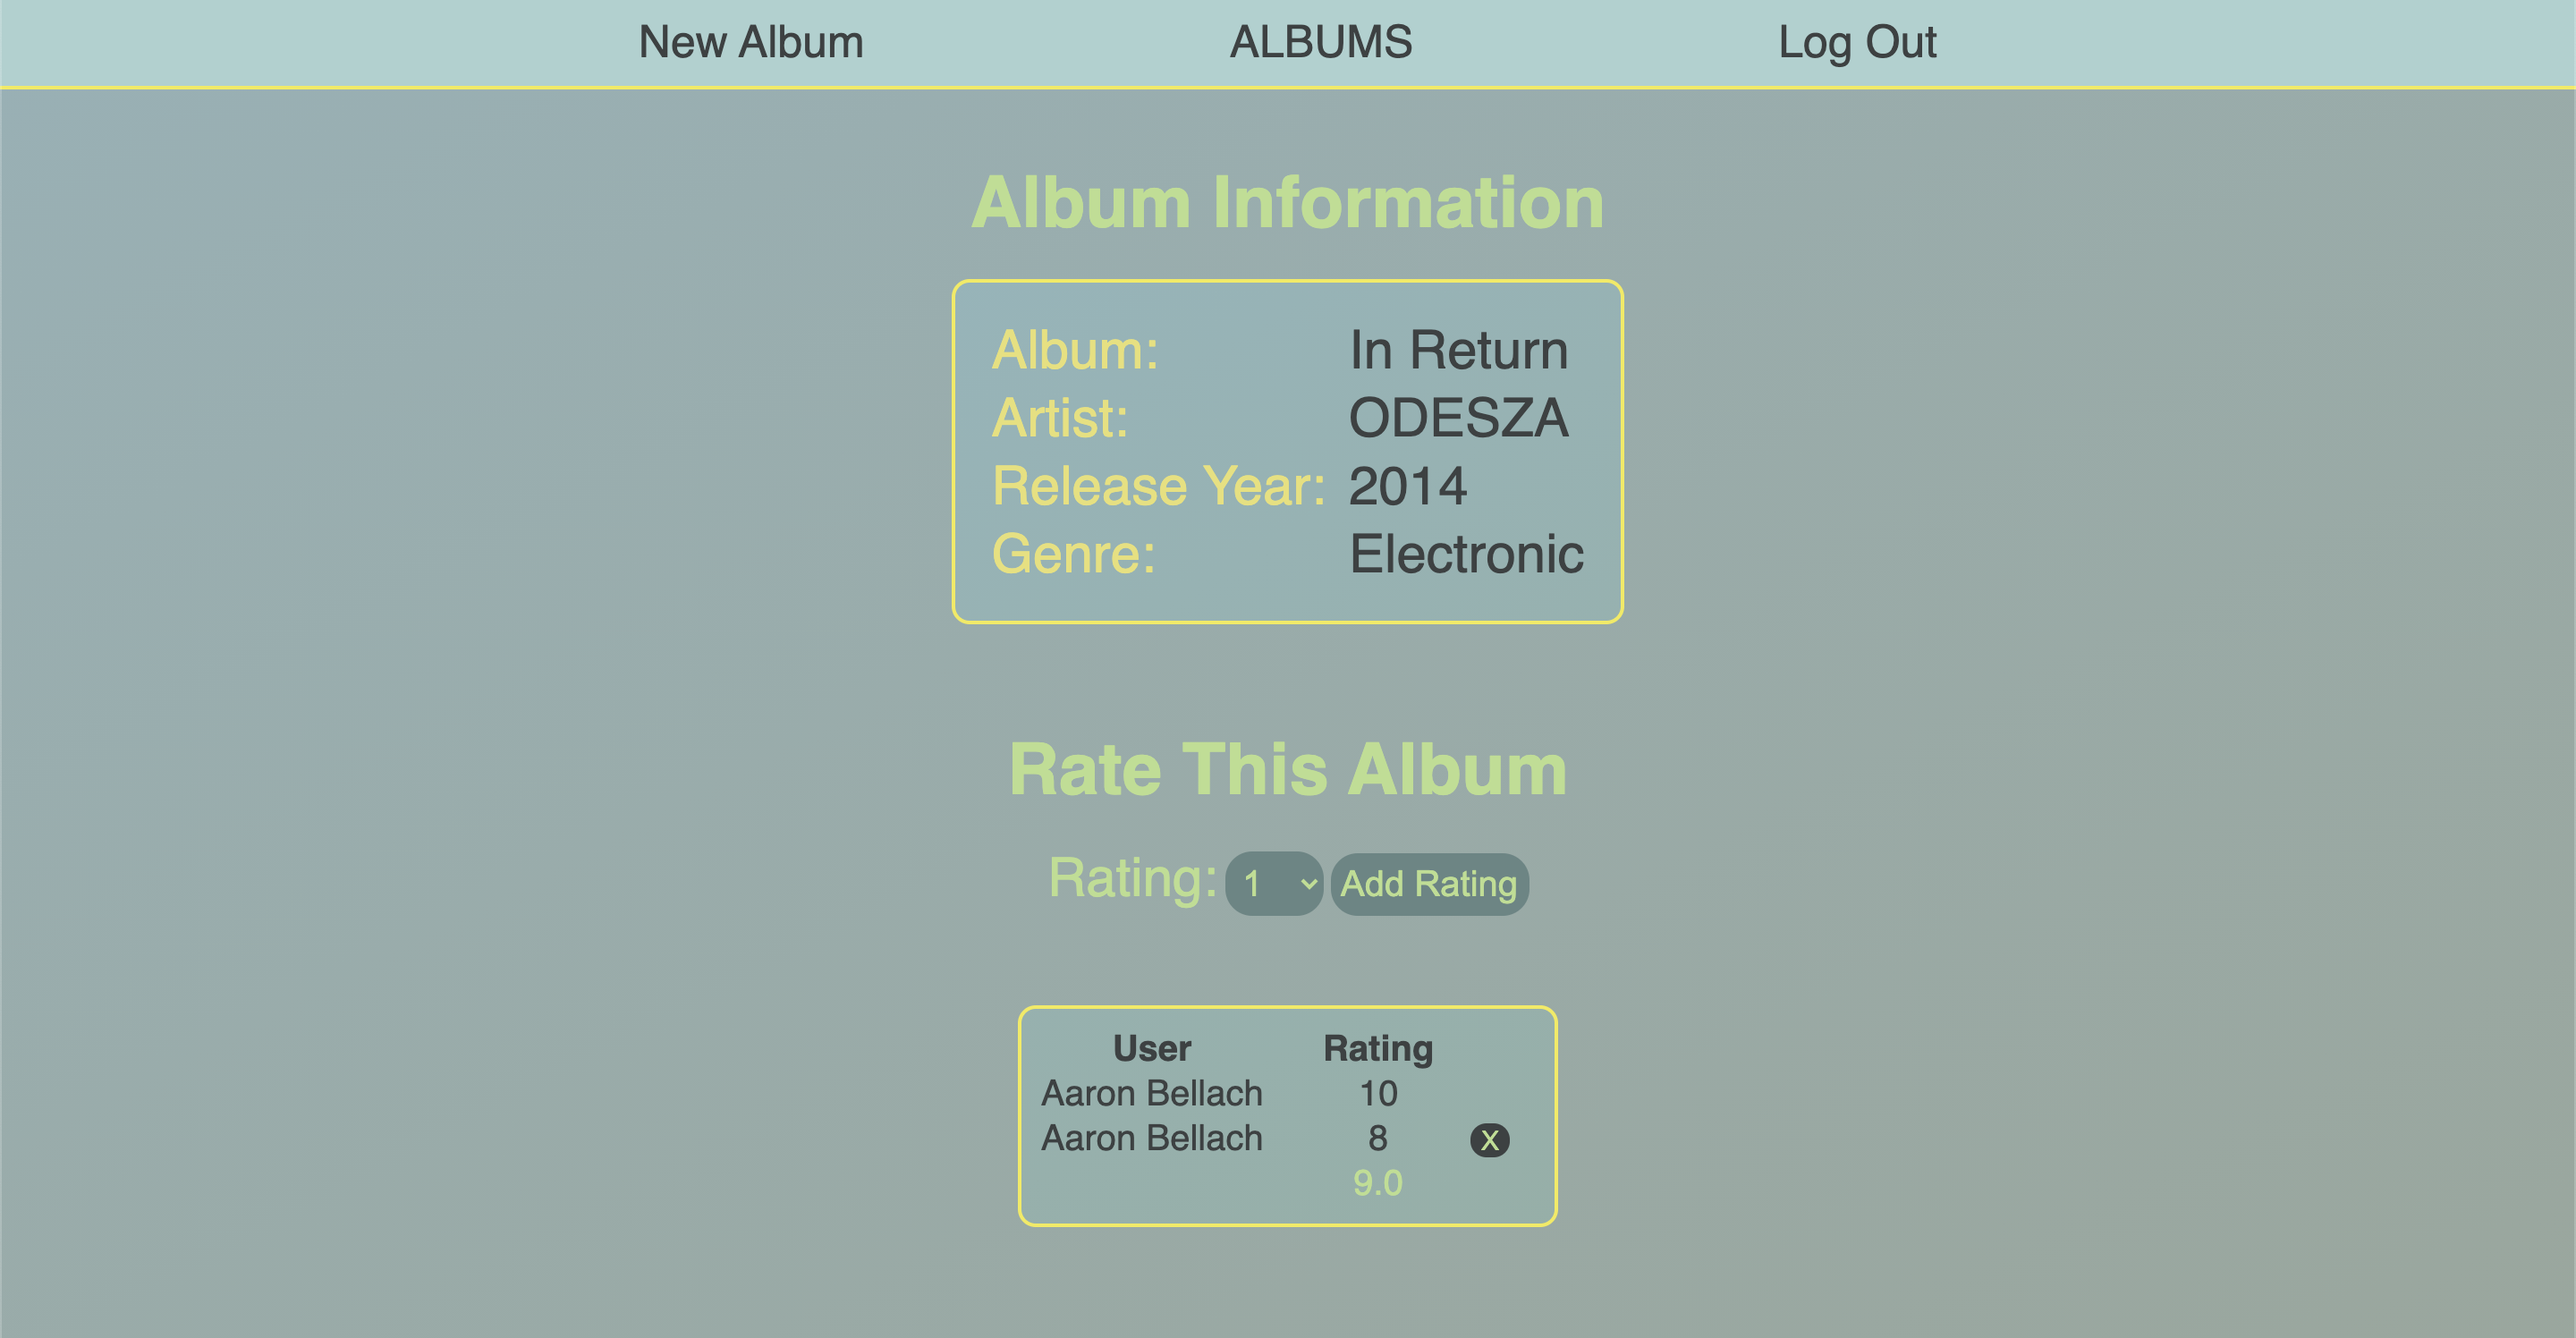
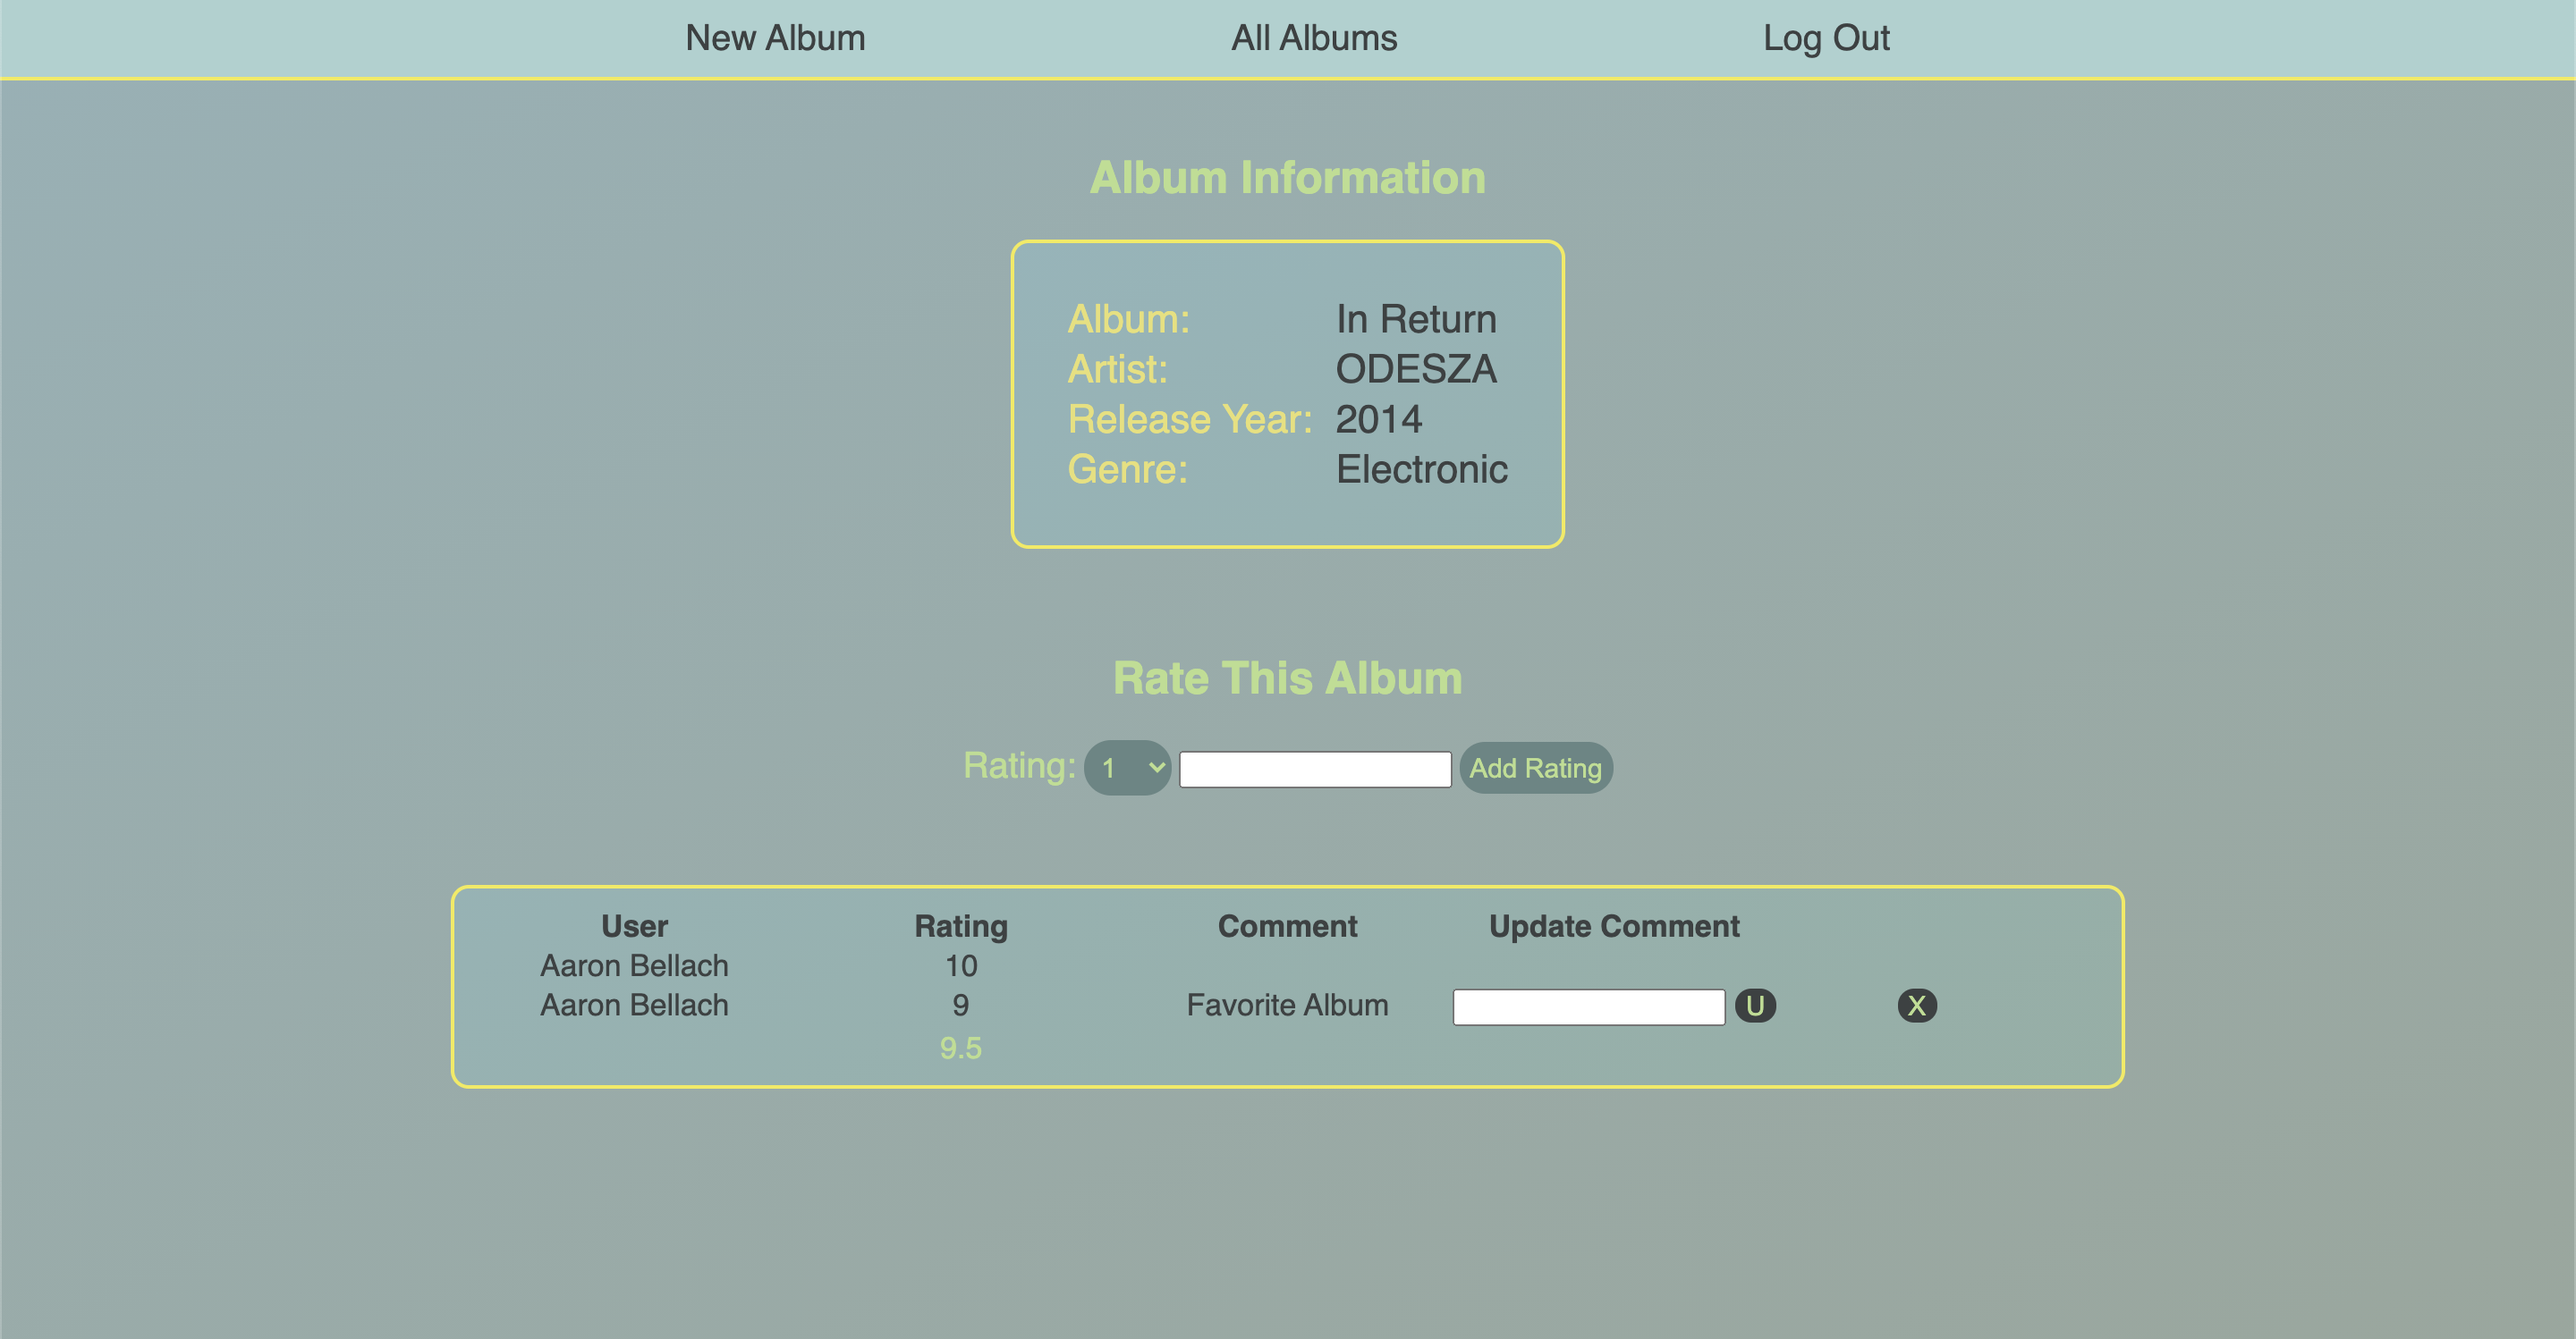
finished code

diff --git a/public/stylesheets/style.css b/public/stylesheets/style.css
@@ -6,10 +6,10 @@ body {
 table{
   display: inline-grid;
   text-align: left;
-  margin:50px 50px 0px 50px;
-  padding: 30px;
+  margin:50px 20px 0px 20px;
+  padding: 50px;
   font-family: sans-serif;
-  font-size: 25px;
+  font-size: 20px;
   color: #3c4142;
   border-style: solid;
   border-width: 2px;
@@ -20,7 +20,7 @@ table{
 
 .grid-container {
   display: inline-grid;
-  grid-template-columns: 1fr 1fr;
+  grid-template-columns: 1fr 1fr 1fr;
   column-width: 100px;
 }
 
@@ -36,14 +36,14 @@ table{
 #details {
   text-decoration: none;
   color: #5c777d;
-  font-size: 20px;
+  font-size: 15px;
 }
 
 nav > a {
   padding: 0px 100px 0px 100px;
   color: #3c4142;
   font-family: sans-serif;
-  font-size: 25px;
+  font-size: 20px;
   text-decoration: none;
 }
 
@@ -64,10 +64,10 @@ nav {
   grid-gap: 10px;
   margin-top: 150px;
   margin-bottom: 30px;
-  padding: 60px;
+  padding: 40px;
   color: #f1ec4c;
   font-family: sans-serif;
-  font-size: 30px;
+  font-size: 21px;
   border-style: solid;
   border-color: #f1ec4c;
   border-radius: 10px;
@@ -80,8 +80,8 @@ nav {
   grid-template-columns: auto auto;
   grid-gap: 3px;
   text-align: left;
-  padding: 20px;
-  font-size: 30px;
+  padding: 30px;
+  font-size: 22px;
   font-family: sans-serif;
   border-color: #f1ec4c;
   border-radius: 10px;
@@ -91,7 +91,7 @@ nav {
 }
 
 #rating {
-  font-size: 20px;
+  font-size: 17px;
   padding: 10px;
   text-align: center;
 }
@@ -99,7 +99,7 @@ nav {
 h5 {
   margin: 20px;
   margin-top: 40px;
-  font-size: 40px;
+  font-size: 25px;
   font-family: sans-serif;
   color: #b9df8d;
 }
@@ -109,7 +109,7 @@ h5 {
 }
 
 #rate {
-  font-size: 30px;
+  font-size: 20px;
   font-family: sans-serif;
   color: #b9df8d;
 }
@@ -119,7 +119,7 @@ h5 {
   color: #b9df8d;
   border-width: 0px;
   border-radius: 15px;
-  font-size: 20px;
+  font-size: 15px;
   padding: 6px;
 }
 
@@ -141,7 +141,7 @@ h5 {
 
 #user-rating {
   display: grid;
-  grid-template-columns: 5fr 5fr 1fr;
+  grid-template-columns: 1fr 1fr 1fr 1fr 1fr;
   text-align: center;
 }
 
@@ -163,3 +163,4 @@ h5 {
   text-decoration: none;
   background: linear-gradient(to bottom right, #8fb8c5, #91ad9e) fixed;
 }
+

diff --git a/controllers/ratings.js b/controllers/ratings.js
@@ -3,6 +3,7 @@ const Album = require('../models/album');
 module.exports = {
   create,
   delete: deleteRating,
+  update,
 };
 
 function deleteRating(req, res) {
@@ -13,6 +14,16 @@ function deleteRating(req, res) {
     });
   });
 };
+
+function update(req, res) {
+  Album.findOne({'ratings._id': req.params.id}, function(err, album) {
+    const ratingSubdoc = album.ratings.id(req.params.id);
+    ratingSubdoc.ratingComment = req.body.ratingComment;
+    album.save(function(err) {
+      res.redirect(`/albums/${album._id}`);
+    });
+  });
+}
 
 function create(req, res) {
   Album.findById(req.params.id, function(err, album) {

diff --git a/routes/ratings.js b/routes/ratings.js
@@ -4,6 +4,8 @@ const ratingsCtrl = require('../controllers/ratings');
 
 router.post('/albums/:id/ratings', isLoggedIn, ratingsCtrl.create);
 router.delete('/ratings/:id', ratingsCtrl.delete)
+router.put('/ratings/:id', ratingsCtrl.update)
+
 
 function isLoggedIn(req, res, next){
     if(req.isAuthenticated()){

diff --git a/routes/albums.js b/routes/albums.js
@@ -4,7 +4,7 @@ const albumsCtrl = require('../controllers/albums');
 
 router.get('/', albumsCtrl.index);
 router.get('/new', isLoggedIn, albumsCtrl.new);
-router.get('/:id', albumsCtrl.show)
+router.get('/:id', albumsCtrl.show);
 router.post('/', albumsCtrl.create);
 
 function isLoggedIn(req, res, next){

diff --git a/models/album.js b/models/album.js
@@ -3,6 +3,7 @@ const Schema = mongoose.Schema;
 
 const ratingSchema = new Schema({
     ratingScore: Number, 
+    ratingComment: String,
     guest: {
       type: Schema.Types.ObjectId,
       ref: 'Guest',

diff --git a/README.md b/README.md
@@ -28,5 +28,4 @@ Enhancements that can be made:
 * Ability to filter and order albums 
 * API for music instead of user input
 * Album artwork
-
-This application has the potential to go in many different directions. For example, it can be used as a music sharing and ranking social platform. Users can create and navigate profile pages consisting of  ranked albums and artists. 
+* Profile pages
